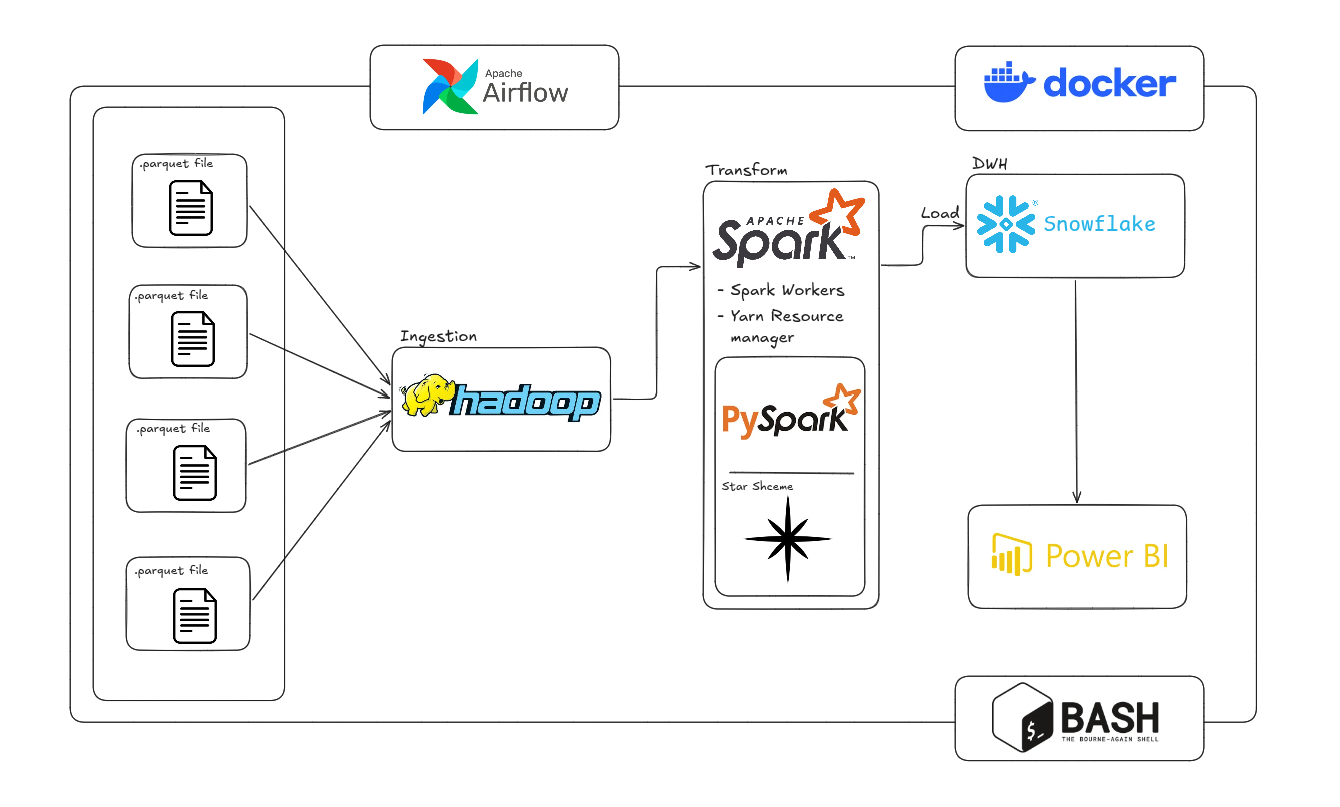
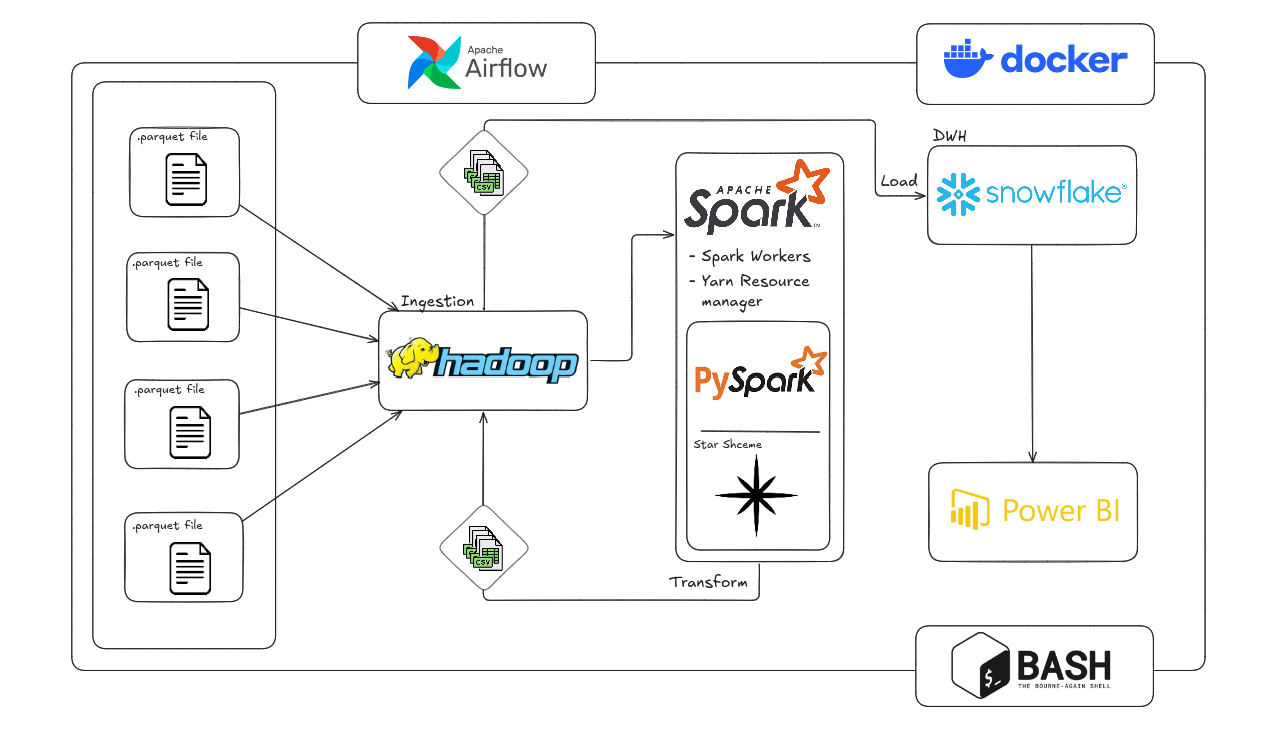
feat: connect data warehouse with snowflake

diff --git a/spark/jobs/load_to_snowflake.py b/spark/jobs/load_to_snowflake.py
@@ -1,0 +1,130 @@
+"""
+load_to_snowflake.py
+────────────────────
+Loads CSV files from HDFS → Snowflake in streaming batches.
+"""
+
+import subprocess
+import os
+import csv
+import io
+import snowflake.connector
+
+HDFS_STAR  = "/uber/data/star"
+HADOOP_BIN = "/usr/local/hadoop/bin/hdfs"
+HADOOP_CTR = "hadoopc"
+BATCH_SIZE = 1000  
+
+SF_CONN = {
+    "account"  : os.getenv("SNOWFLAKE_URL", "").replace(".snowflakecomputing.com", ""),
+    "user"     : os.getenv("SNOWFLAKE_USER"),
+    "password" : os.getenv("SNOWFLAKE_PASSWORD"),
+    "database" : os.getenv("SNOWFLAKE_DATABASE", "UBER_DWH"),
+    "schema"   : os.getenv("SNOWFLAKE_SCHEMA",   "PUBLIC"),
+    "warehouse": os.getenv("SNOWFLAKE_WAREHOUSE", "COMPUTE_WH"),
+}
+
+TABLES = [
+    "DIM_DATETIME",
+    "DIM_LOCATION",
+    "DIM_VENDOR",
+    "DIM_PAYMENT",
+    "DIM_RATE",
+    "FACT_TRIP",
+]
+
+
+def list_csv_files(table: str) -> list[str]:
+    path = f"{HDFS_STAR}/{table}"
+    result = subprocess.run(
+        ["docker", "exec", HADOOP_CTR, HADOOP_BIN, "dfs", "-ls", path],
+        capture_output=True, text=True
+    )
+    return [
+        line.split()[-1]
+        for line in result.stdout.splitlines()
+        if line.endswith(".csv")
+    ]
+
+
+def stream_csv_from_hdfs(hdfs_path: str):
+    """Stream CSV line by line from HDFS — no full load in memory."""
+    process = subprocess.Popen(
+        ["docker", "exec", HADOOP_CTR, HADOOP_BIN, "dfs", "-cat", hdfs_path],
+        stdout=subprocess.PIPE,
+        stderr=subprocess.DEVNULL,
+        text=True
+    )
+    reader = csv.reader(process.stdout)
+    header = next(reader, None)
+    yield header
+    for row in reader:
+        yield row
+    process.stdout.close()
+    process.wait()
+
+
+def load_table(cur, table: str):
+    print(f"\n  Loading {table}...")
+
+    files = list_csv_files(table)
+    if not files:
+        print(f"  [Skip] No CSV files found for {table}")
+        return
+
+    cur.execute(f"TRUNCATE TABLE IF EXISTS {table}")
+    total_rows = 0
+
+    for file in files:
+        stream    = stream_csv_from_hdfs(file)
+        header    = next(stream, None)
+        if not header:
+            continue
+
+        columns      = ", ".join(header)
+        placeholders = ", ".join(["%s"] * len(header))
+        insert_sql   = f"INSERT INTO {table} ({columns}) VALUES ({placeholders})"
+
+        batch = []
+        for row in stream:
+            batch.append(row)
+            if len(batch) >= BATCH_SIZE:
+                cur.executemany(insert_sql, batch)
+                total_rows += len(batch)
+                batch = []
+
+        if batch:
+            cur.executemany(insert_sql, batch)
+            total_rows += len(batch)
+
+    print(f"  [Done] {table} → {total_rows:,} rows")
+
+
+def main():
+    print("════════════════════════════════════════════════")
+    print("  Snowflake Load Job")
+    print(f"  Source : HDFS {HDFS_STAR}")
+    print(f"  Target : {SF_CONN['database']}.{SF_CONN['schema']}")
+    print("════════════════════════════════════════════════")
+
+    conn = snowflake.connector.connect(**SF_CONN)
+    cur  = conn.cursor()
+
+    try:
+        for table in TABLES:
+            load_table(cur, table)
+        conn.commit()
+        print("\n════════════════════════════════════════════════")
+        print("  [Done] All tables loaded to Snowflake ✅")
+        print("════════════════════════════════════════════════")
+    except Exception as e:
+        conn.rollback()
+        print(f"\n  [Failed] {e}")
+        raise
+    finally:
+        cur.close()
+        conn.close()
+
+
+if __name__ == "__main__":
+    main()

diff --git a/airflow/dags/transformation_dag.py b/airflow/dags/transformation_dag.py
@@ -16,12 +16,7 @@ SPARK_SUBMIT = (
     "--master spark://spark-master:7077 "
     "--conf spark.jars.ivy=/tmp/.ivy"
 )
-
-SPARK_APPS   = "/opt/spark-apps/jobs"
-SF_PACKAGES  = (
-    "net.snowflake:snowflake-jdbc:3.13.30,"
-    "net.snowflake:spark-snowflake_2.12:2.16.0-spark_3.4"
-)
+SPARK_APPS = "/opt/spark-apps/jobs"
 
 DEFAULT_ARGS = {
     "owner": "Data Engineering Team",
@@ -49,14 +44,21 @@ with DAG(
         execution_timeout=timedelta(minutes=30),
     )
 
-    # 2. Transform → Snowflake
+    # 2. Transform → CSV on HDFS
     transform = BashOperator(
         task_id="transform_to_star",
         bash_command=f"{SPARK_SUBMIT} {SPARK_APPS}/transform.py",
         execution_timeout=timedelta(minutes=30),
     )
 
-    # 3. Success log
+    # 3. Load CSV → Snowflake
+    load = BashOperator(
+        task_id="load_to_snowflake",
+        bash_command="python3 /opt/airflow/spark/jobs/load_to_snowflake.py",
+        execution_timeout=timedelta(minutes=60),
+    )
+
+    # 4. Success log
     success_log = BashOperator(
         task_id="log_success",
         bash_command="""
@@ -69,7 +71,7 @@ with DAG(
         trigger_rule=TriggerRule.ALL_SUCCESS,
     )
 
-    # 4. Failure alert
+    # 5. Failure alert
     fail_alert = BashOperator(
         task_id="alert_on_failure",
         bash_command="""
@@ -83,6 +85,5 @@ with DAG(
     )
 
     # Flow
-    clean >> transform >> success_log
-    [clean, transform] >> fail_alert
-    
+    clean >> transform >> load >> success_log
+    [clean, transform, load] >> fail_alert
